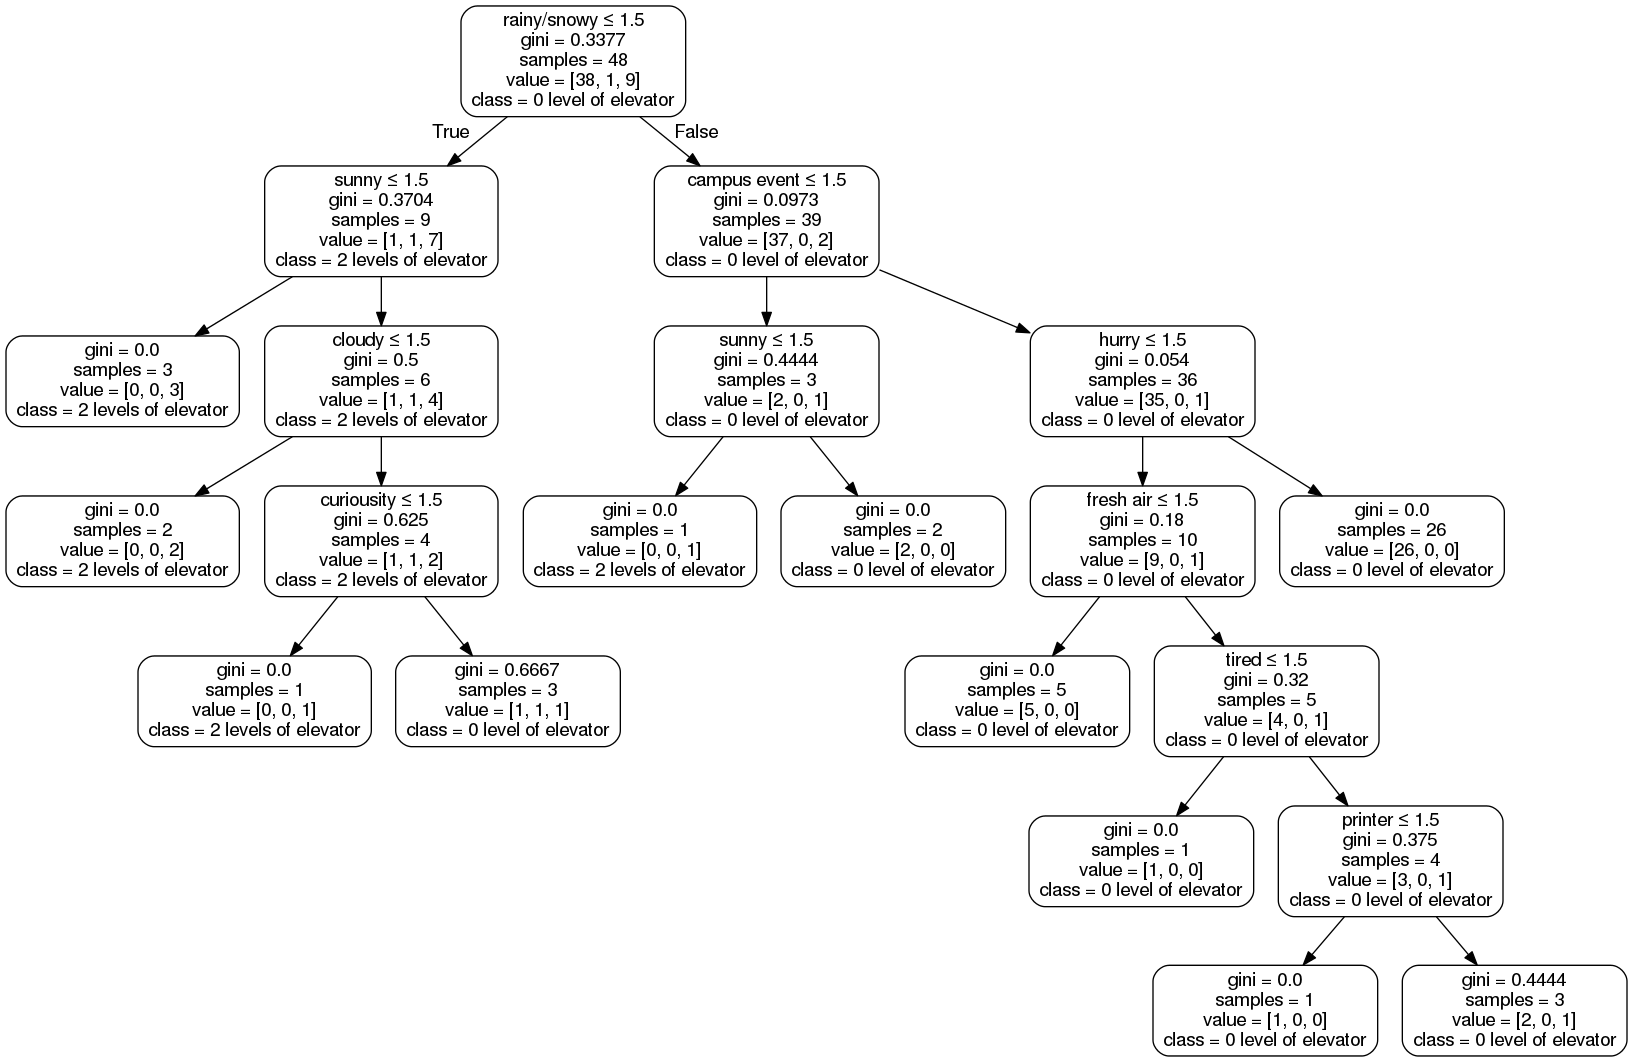
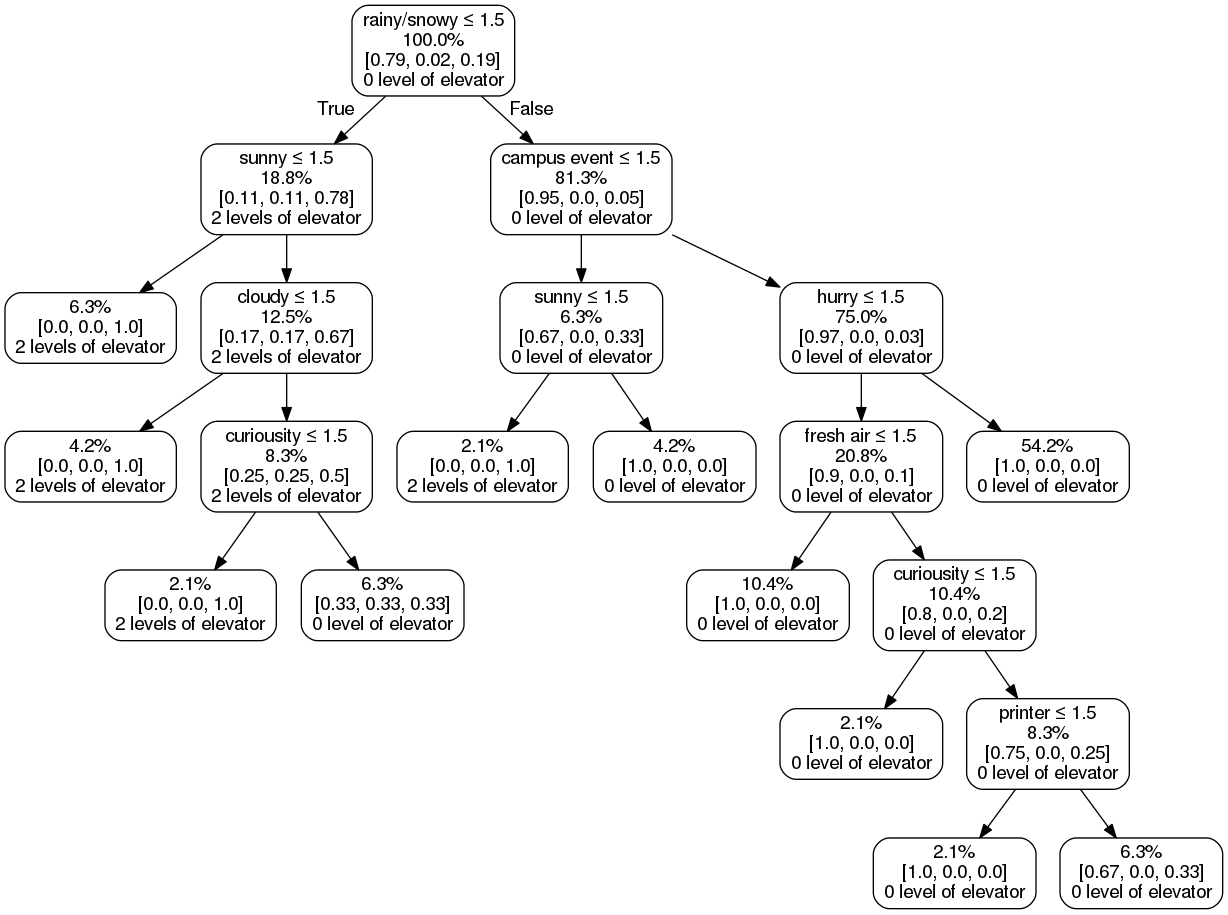
update graph

Changed region(s): [[0.0, 0.0, 1.0, 1.0], [0.0619, 0.612, 0.4023, 0.7038], [0.5879, 0.2754, 0.6189, 0.306]]

diff --git a/server/server.py b/server/server.py
@@ -81,7 +81,7 @@ def drawDecisionTree(dt, filename, featureNames, classNames):
     dot_data = StringIO()
     print featureNames
     print classNames
-    tree.export_graphviz(dt, out_file=dot_data, feature_names=featureNames, class_names=classNames, rounded=True, special_characters=True)
+    tree.export_graphviz(dt, out_file=dot_data, feature_names=featureNames, class_names=classNames, rounded=True, special_characters=True, label=None, proportion=True, impurity=False)
     graph = pydot.graph_from_dot_data(dot_data.getvalue())
     graph.write_png(filename) 
 
